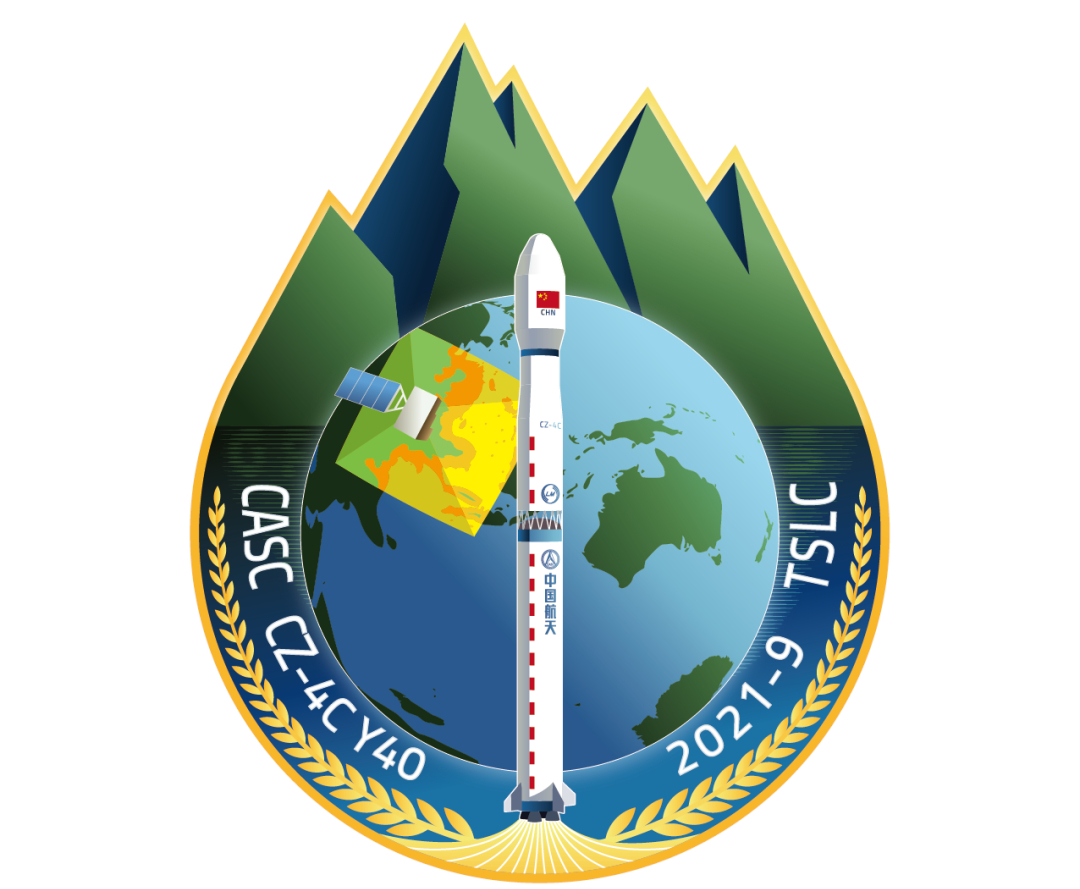
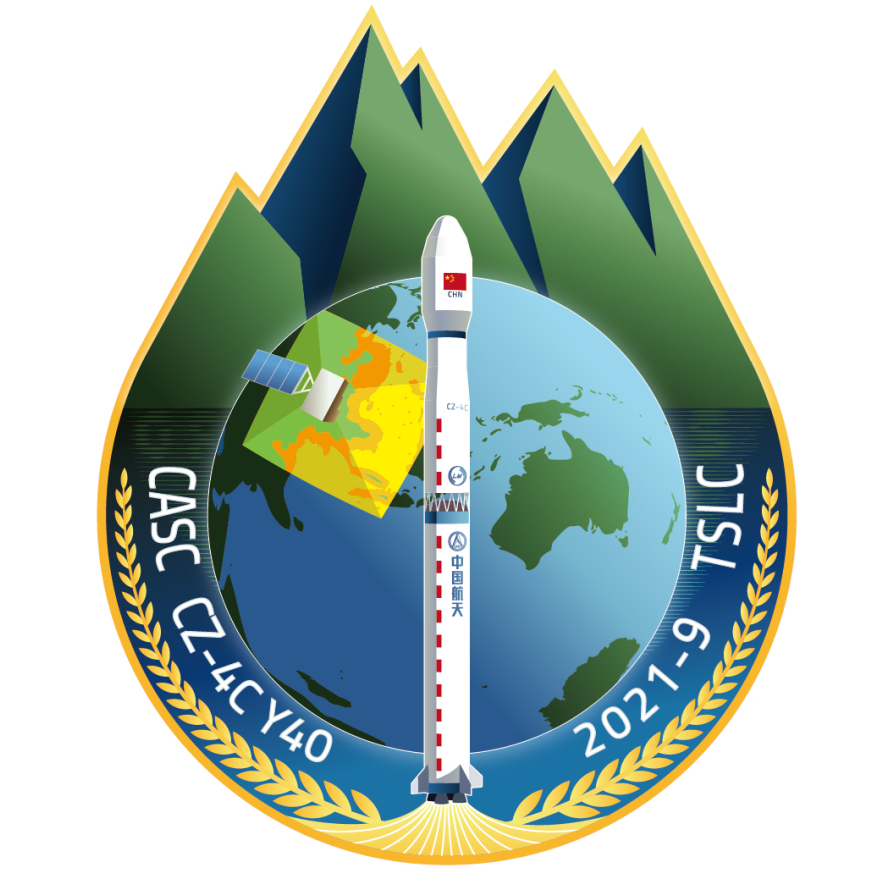
更新三次任务的徽章 (#19)
* update

* fix

diff --git a/README.md b/README.md
@@ -13,7 +13,7 @@
 <details open> 
 <summary>2021</summary> 
 <table border="0" width=1000px align="center" style="margin-bottom: 100px;">
-<tr><td align="center" width=240px><img align="center" width=240px style=" box-shadow:2px 2px 5px #333333;" src="gallery/2021/20210920/20210920.png" /></td><td align="center" width=240px><img align="center" width=240px style=" box-shadow:2px 2px 5px #333333;" src="gallery/2021/20210907/20210907.jpg" /></td><td align="center" width=240px><img align="center" width=240px style=" box-shadow:2px 2px 5px #333333;" src="gallery/2021/20210804/20210804.jpg" /></td></tr><tr><td align="center"><b><a href="gallery/2021/20210920">天舟三号</a><br>（2021年09月20日）</b></td><td align="center"><b><a href="gallery/2021/20210907">高分五号02星</a><br>（2021年09月07日）</b></td><td align="center"><b><a href="gallery/2021/20210804">多媒体贝塔试验A/B卫星</a><br>（2021年08月04日）</b></td></tr><tr><td align="center" width=240px><img align="center" width=240px style=" box-shadow:2px 2px 5px #333333;" src="gallery/2021/20210729/20210729.png" /></td><td align="center" width=240px><img align="center" width=240px style=" box-shadow:2px 2px 5px #333333;" src="gallery/2021/20210703/20210703.png" /></td><td align="center" width=240px><img align="center" width=240px style=" box-shadow:2px 2px 5px #333333;" src="gallery/2021/20210611/20210611.jpg" /></td></tr><tr><td align="center"><b><a href="gallery/2021/20210729">天绘一号04星</a><br>（2021年07月29日）</b></td><td align="center"><b><a href="gallery/2021/20210703">吉林一号宽幅01B</a><br>（2021年07月03日）</b></td><td align="center"><b><a href="gallery/2021/20210611">长二丁一箭四星</a><br>（2021年06月11日）</b></td></tr><tr><td align="center" width=240px><img align="center" width=240px style=" box-shadow:2px 2px 5px #333333;" src="gallery/2021/20210529/20210529.jpeg" /></td><td align="center" width=240px><img align="center" width=240px style=" box-shadow:2px 2px 5px #333333;" src="gallery/2021/20210519/20210519.png" /></td><td align="center" width=240px><img align="center" width=240px style=" box-shadow:2px 2px 5px #333333;" src="gallery/2021/20210430/20210430.png" /></td></tr><tr><td align="center"><b><a href="gallery/2021/20210529">天舟二号</a><br>（2021年05月29日）</b></td><td align="center"><b><a href="gallery/2021/20210519">海洋二号D</a><br>（2021年05月19日）</b></td><td align="center"><b><a href="gallery/2021/20210430">遥感三十四号</a><br>（2021年04月30日）</b></td></tr><tr><td align="center" width=240px><img align="center" width=240px style=" box-shadow:2px 2px 5px #333333;" src="gallery/2021/20210409/20210409.png" /></td><td align="center" width=240px><img align="center" width=240px style=" box-shadow:2px 2px 5px #333333;" src="gallery/2021/20210331/20210331.jpg" /></td></tr><tr><td align="center"><b><a href="gallery/2021/20210409">试验六号03星</a><br>（2021年04月09日）</b></td><td align="center"><b><a href="gallery/2021/20210331">高分十二号02星</a><br>（2021年03月31日）</b></td></tr>
+<tr><td align="center" width=240px><img align="center" width=240px style=" box-shadow:2px 2px 5px #333333;" src="gallery/2021/20210920/20210920.png" /></td><td align="center" width=240px><img align="center" width=240px style=" box-shadow:2px 2px 5px #333333;" src="gallery/2021/20210907/20210907.jpg" /></td><td align="center" width=240px><img align="center" width=240px style=" box-shadow:2px 2px 5px #333333;" src="gallery/2021/20210819/20210819.jpg" /></td></tr><tr><td align="center"><b><a href="gallery/2021/20210920">天舟三号</a><br>（2021年09月20日）</b></td><td align="center"><b><a href="gallery/2021/20210907">高分五号02星</a><br>（2021年09月07日）</b></td><td align="center"><b><a href="gallery/2021/20210819">天绘二号02星</a><br>（2021年08月19日）</b></td></tr><tr><td align="center" width=240px><img align="center" width=240px style=" box-shadow:2px 2px 5px #333333;" src="gallery/2021/20210804/20210804.jpg" /></td><td align="center" width=240px><img align="center" width=240px style=" box-shadow:2px 2px 5px #333333;" src="gallery/2021/20210729/20210729.png" /></td><td align="center" width=240px><img align="center" width=240px style=" box-shadow:2px 2px 5px #333333;" src="gallery/2021/20210709/20210709.jpg" /></td></tr><tr><td align="center"><b><a href="gallery/2021/20210804">多媒体贝塔试验A/B卫星</a><br>（2021年08月04日）</b></td><td align="center"><b><a href="gallery/2021/20210729">天绘一号04星</a><br>（2021年07月29日）</b></td><td align="center"><b><a href="gallery/2021/20210709">钟子号卫星星座02星</a><br>（2021年07月09日）</b></td></tr><tr><td align="center" width=240px><img align="center" width=240px style=" box-shadow:2px 2px 5px #333333;" src="gallery/2021/20210703/20210703.png" /></td><td align="center" width=240px><img align="center" width=240px style=" box-shadow:2px 2px 5px #333333;" src="gallery/2021/20210611/20210611.jpg" /></td><td align="center" width=240px><img align="center" width=240px style=" box-shadow:2px 2px 5px #333333;" src="gallery/2021/20210529/20210529.jpeg" /></td></tr><tr><td align="center"><b><a href="gallery/2021/20210703">吉林一号宽幅01B</a><br>（2021年07月03日）</b></td><td align="center"><b><a href="gallery/2021/20210611">长二丁一箭四星</a><br>（2021年06月11日）</b></td><td align="center"><b><a href="gallery/2021/20210529">天舟二号</a><br>（2021年05月29日）</b></td></tr><tr><td align="center" width=240px><img align="center" width=240px style=" box-shadow:2px 2px 5px #333333;" src="gallery/2021/20210519/20210519.png" /></td><td align="center" width=240px><img align="center" width=240px style=" box-shadow:2px 2px 5px #333333;" src="gallery/2021/20210430/20210430.png" /></td><td align="center" width=240px><img align="center" width=240px style=" box-shadow:2px 2px 5px #333333;" src="gallery/2021/20210409/20210409.png" /></td></tr><tr><td align="center"><b><a href="gallery/2021/20210519">海洋二号D</a><br>（2021年05月19日）</b></td><td align="center"><b><a href="gallery/2021/20210430">遥感三十四号</a><br>（2021年04月30日）</b></td><td align="center"><b><a href="gallery/2021/20210409">试验六号03星</a><br>（2021年04月09日）</b></td></tr><tr><td align="center" width=240px><img align="center" width=240px style=" box-shadow:2px 2px 5px #333333;" src="gallery/2021/20210331/20210331.jpg" /></td></tr><tr><td align="center"><b><a href="gallery/2021/20210331">高分十二号02星</a><br>（2021年03月31日）</b></td></tr>
 </table>
 </details>
 

diff --git a/gallery/2021/20210709/README.md b/gallery/2021/20210709/README.md
@@ -1,0 +1,19 @@
+
+<table border="0" width=550px align="center" style="margin-bottom: 100px;">
+  <tr>
+  <td align="center" width=500px><img align="center" width=500px style=" box-shadow:2px 2px 5px #333333;" src="20210709.jpg" /></td>
+  </tr>
+  <tr>
+  <td align="center"><b> 钟子号卫星星座02星 <br>（2021年07月09日）</b></td>
+  </tr>
+</table>
+
+
+# **钟子号卫星星座02星** Zhongzi-02
+
+* 时间：2021年07月09日
+* 载具：长征六号
+* 载荷：钟子号卫星星座02星
+* 来源：[中国航天CASC B站](https://t.bilibili.com/545453798559265049?tab=2) 
+* 信息：[中国航天CASC B站](https://t.bilibili.com/545453798559265049?tab=2) 
+

diff --git a/gallery/2021/20210819/README.md b/gallery/2021/20210819/README.md
@@ -1,0 +1,19 @@
+
+<table border="0" width=550px align="center" style="margin-bottom: 100px;">
+  <tr>
+  <td align="center" width=500px><img align="center" width=500px style=" box-shadow:2px 2px 5px #333333;" src="20210819.jpg" /></td>
+  </tr>
+  <tr>
+  <td align="center"><b> 天绘二号02星 <br>（2021年08月19日）</b></td>
+  </tr>
+</table>
+
+
+# **天绘二号02星** Tianhui 2-02
+
+* 时间：2021年08月19日
+* 载具：长征四号乙
+* 载荷：天绘二号02星
+* 来源：[中国航天CASC B站](https://t.bilibili.com/560465594016725015?tab=2) 
+* 信息：[中国航天CASC B站](https://t.bilibili.com/560465594016725015?tab=2) 
+
